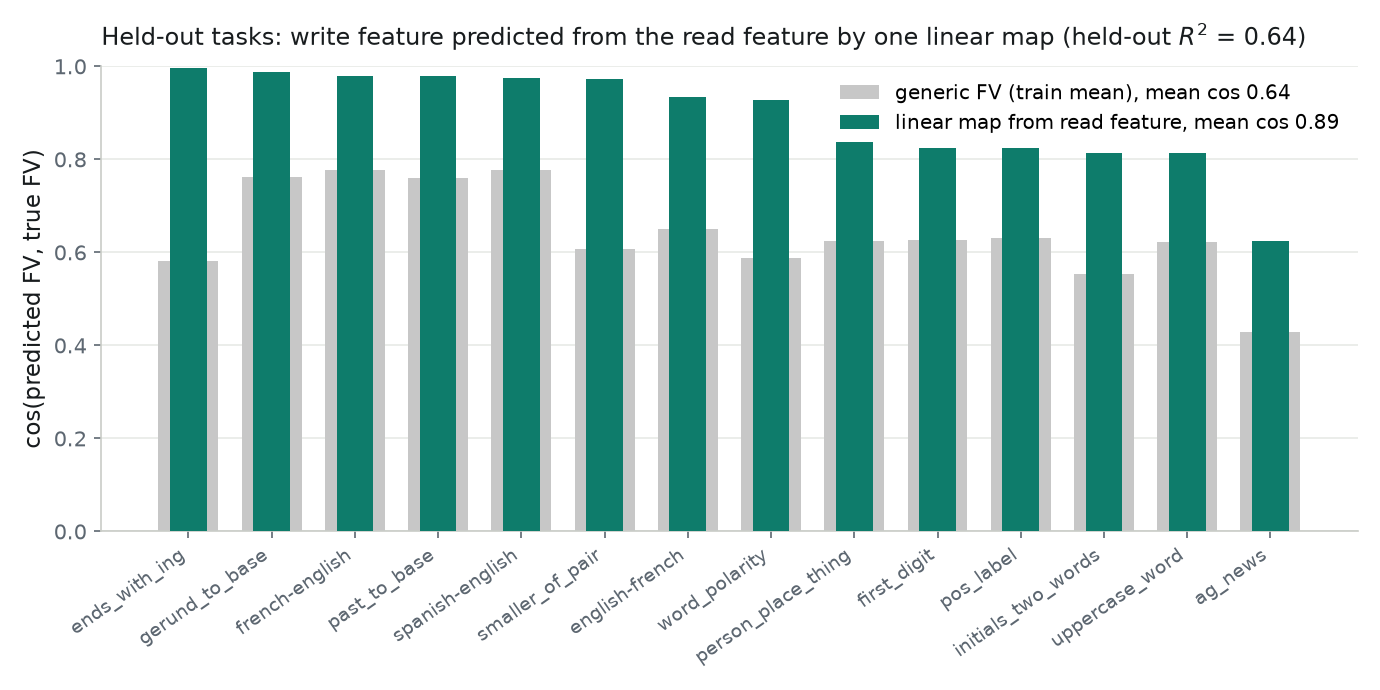
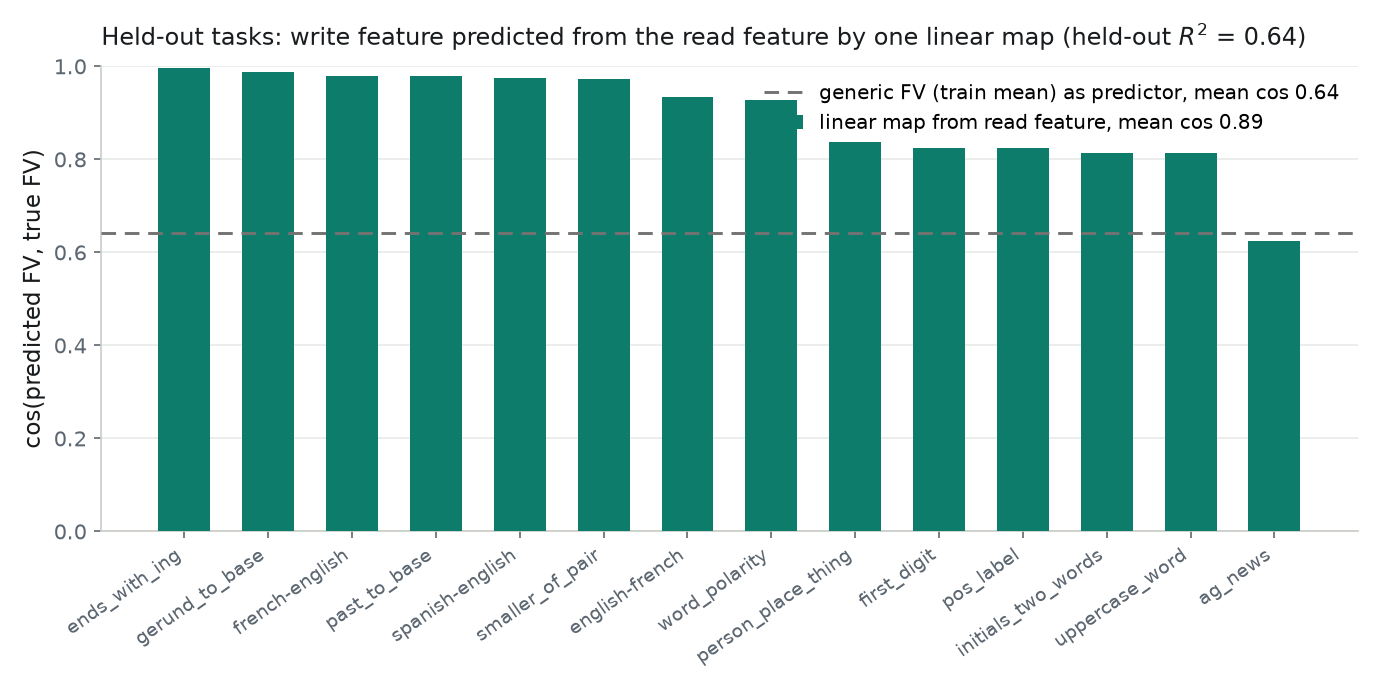
Claim 6 figure: single bar per task, generic-FV baseline as a dashed line

diff --git a/src/eval_scripts/claim6_meanresid_map.py b/src/eval_scripts/claim6_meanresid_map.py
@@ -268,8 +268,9 @@ def main():
             fh.write(f"{te_tasks[i]},{cos_map[i]:.4f},{cos_gen[i]:.4f}\n")
     fig, ax = plt.subplots(figsize=(9.2, 4.6), dpi=150); fig.patch.set_facecolor("white"); style(ax)
     xs = np.arange(len(ordr))
-    ax.bar(xs, cos_gen[ordr], width=0.72, color="0.78", zorder=2, label=f"generic FV (train mean), mean cos {cos_gen.mean():.2f}")
-    ax.bar(xs, cos_map[ordr], width=0.44, color=TEAL, zorder=3, label=f"linear map from read feature, mean cos {cos_map.mean():.2f}")
+    ax.bar(xs, cos_map[ordr], width=0.62, color=TEAL, zorder=3, label=f"linear map from read feature, mean cos {cos_map.mean():.2f}")
+    ax.axhline(cos_gen.mean(), color="0.45", lw=1.4, ls=(0, (5, 3)), zorder=4,
+               label=f"generic FV (train mean) as predictor, mean cos {cos_gen.mean():.2f}")
     ax.set_xticks(xs, [te_tasks[i] for i in ordr], rotation=35, ha="right", fontsize=9)
     ax.set_ylabel("cos(predicted FV, true FV)", fontsize=11, color=INK)
     ax.set_ylim(0, 1.0)
